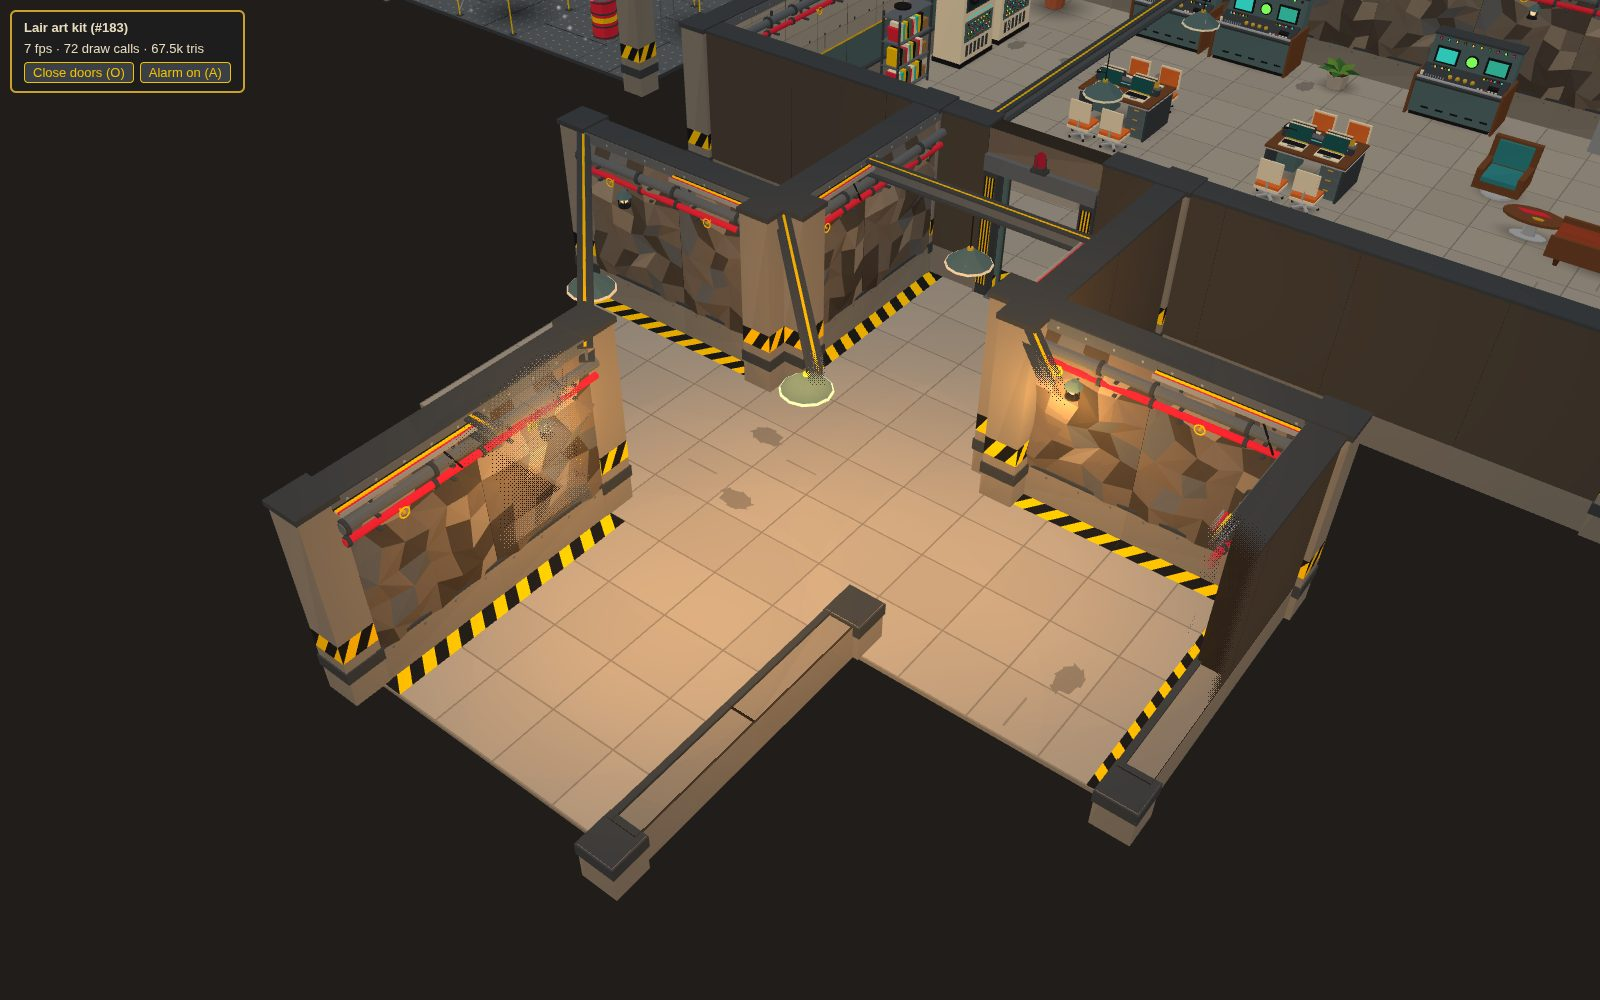
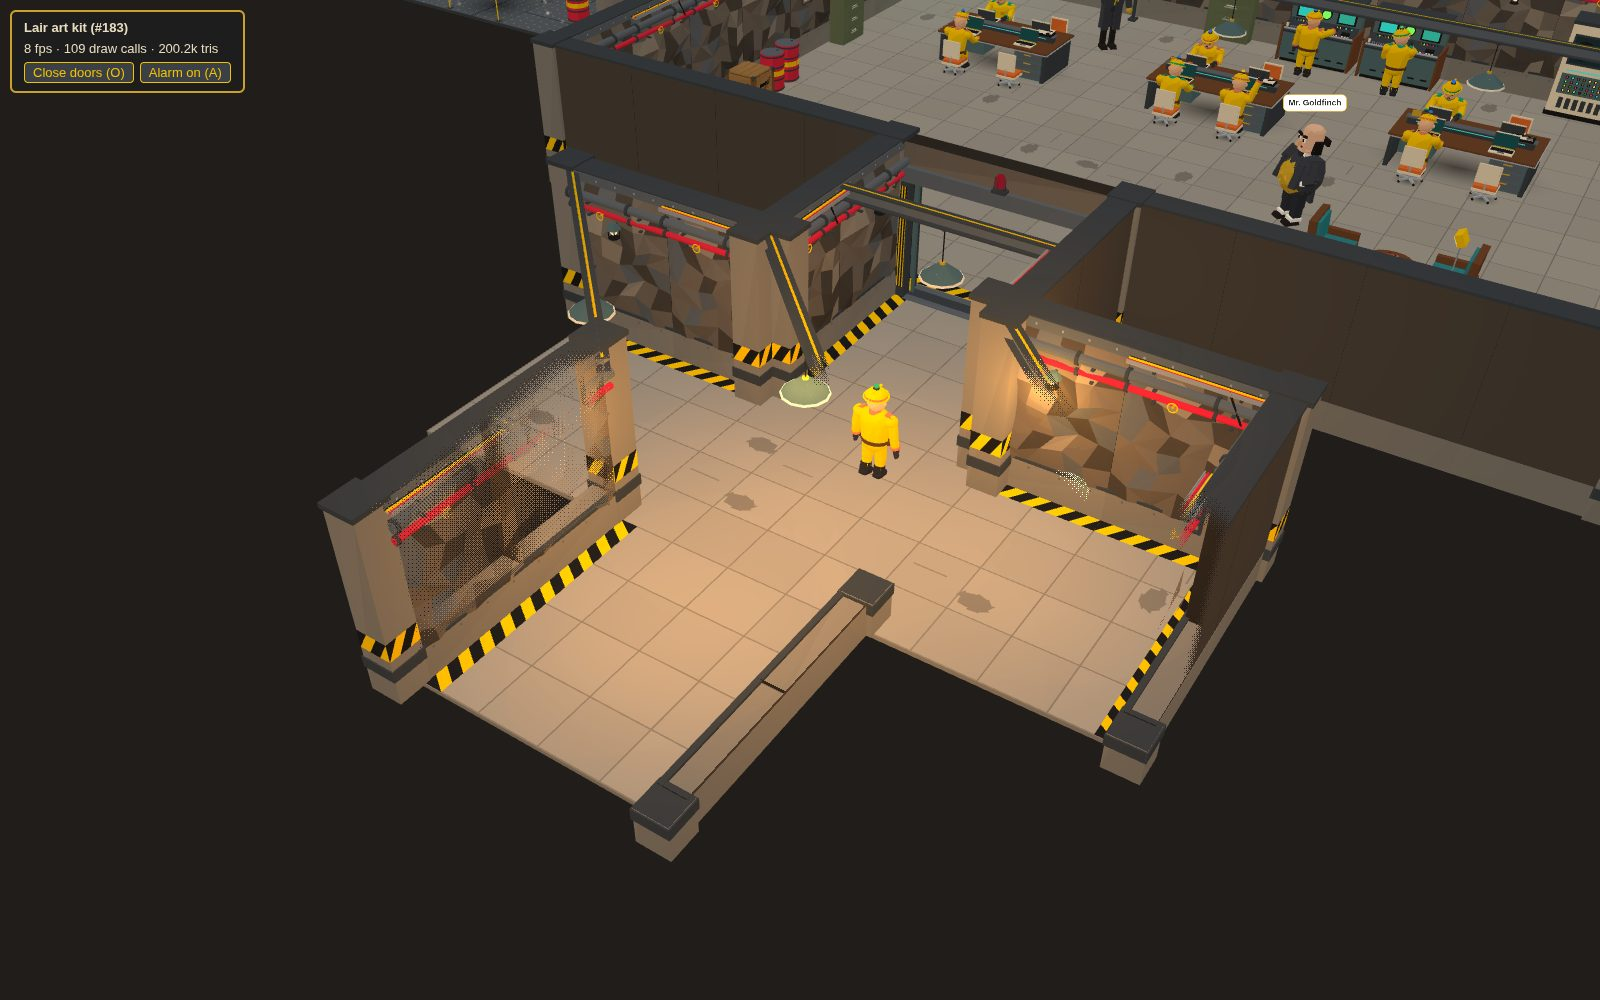
web: add geniuses to the lair debug scene and refresh the screenshots
#185 merged the genius avatars; the owner should judge the lair with its
people in it. The debug scene adds a mastermind by the boards, a tycoon by
the lounge, and a scientist and a general in the style gallery. The ten
PR screenshots are retaken with henchmen, geniuses, the wide blast door
and the generated rooms.

diff --git a/apps/web/src/scene/lair/debug/DebugHenchmen.tsx b/apps/web/src/scene/lair/debug/DebugHenchmen.tsx
@@ -1,14 +1,16 @@
 /**
- * Henchmen (#184) in the debug scene, so the owner sees the characters and
- * the lair together: seated at the main room's desks (placed with the lair
+ * Henchmen (#184) and geniuses (#185) in the debug scene, so the owner sees
+ * the characters and the lair together: seated at the main room's desks (placed with the lair
  * chair's sit anchor and the henchman's seated body), operators at the
  * consoles, one walking up the corridor, builders on the site, and the
- * gallery rooms staffed in their style's skin. Debug only.
+ * gallery rooms staffed in their style's skin, with a genius or two
+ * looking on. Debug only.
  */
 import type { RoomLayout, Seat } from "@regulus/floor-layout";
 import type { AgentStatus, AvatarAnimation } from "@regulus/protocol";
 import { providerLightColor } from "../../avatar/colorSets.ts";
 import { seatedOffset } from "../../avatar/seatedFit.ts";
+import { GeniusAvatar } from "../../geniuses/GeniusAvatar.tsx";
 import { HenchmanAvatar } from "../../henchmen/HenchmanAvatar.tsx";
 import { HENCHMAN_SEATED_BODY } from "../../henchmen/seatedFit.ts";
 import { resolveModelId } from "../generatorModels.ts";
@@ -137,6 +139,73 @@ export function DebugHenchmen({ spots }: { spots: readonly HenchmanSpot[] }) {
           handRaised={s.handRaised}
           skin={s.skin}
           trim={s.trim}
+        />
+      ))}
+    </group>
+  );
+}
+
+export interface GeniusSpot {
+  key: string;
+  name: string;
+  archetype: string;
+  position: readonly [number, number, number];
+  heading: number;
+  animation: AvatarAnimation;
+}
+
+/** The bosses: one in the main room, one by the lounge, one in the lab and war room of the gallery. */
+export function geniusSpots(
+  gallery: readonly { style: string; offset: readonly [number, number] }[],
+): GeniusSpot[] {
+  const spots: GeniusSpot[] = [
+    {
+      key: "boss",
+      name: "The Mastermind",
+      archetype: "mastermind",
+      position: [6.2, 0, 2.6],
+      heading: -2.4,
+      animation: "point",
+    },
+    {
+      key: "tycoon",
+      name: "Mr. Goldfinch",
+      archetype: "tycoon",
+      position: [13.2, 0, 9.4],
+      heading: 2.4,
+      animation: "idle",
+    },
+  ];
+  const by: Record<string, [string, string]> = {
+    lab: ["scientist", "Dr. Volta"],
+    war_room: ["general", "General Brass"],
+  };
+  for (const g of gallery) {
+    const who = by[g.style];
+    if (!who) continue;
+    spots.push({
+      key: g.style,
+      name: who[1],
+      archetype: who[0],
+      position: [g.offset[0] + 9.5, 0, g.offset[1] + 7.8],
+      heading: Math.PI - 0.4,
+      animation: "wave",
+    });
+  }
+  return spots;
+}
+
+export function DebugGeniuses({ spots }: { spots: readonly GeniusSpot[] }) {
+  return (
+    <group name="lair:geniuses">
+      {spots.map((s) => (
+        <GeniusAvatar
+          key={s.key}
+          position={s.position}
+          rotation-y={s.heading}
+          animation={s.animation}
+          name={s.name}
+          look={{ archetype: s.archetype }}
         />
       ))}
     </group>

diff --git a/apps/web/src/scene/lair/debug/LairShowcase.tsx b/apps/web/src/scene/lair/debug/LairShowcase.tsx
@@ -24,7 +24,13 @@ import { CORRIDOR_WIDTH, WALL_THICKNESS } from "../dimensions.ts";
 import { PIECES } from "../kit.ts";
 import { LAIR } from "../palette.ts";
 import { Dust, Sparks } from "../particles/BuildParticles.tsx";
-import { DebugHenchmen, extraCrew, roomCrew } from "./DebugHenchmen.tsx";
+import {
+  DebugGeniuses,
+  DebugHenchmen,
+  extraCrew,
+  geniusSpots,
+  roomCrew,
+} from "./DebugHenchmen.tsx";
 import { RoomLooks } from "./RoomLooks.tsx";
 import { corridorOrigin, mainRoom, mainRoomLayout, styleGallery } from "./sampleRooms.ts";
 import { BUILD_SITE, catalogue, sampleBuildSite, sampleCorridors } from "./sampleScene.ts";
@@ -78,6 +84,7 @@ function Scene({
   const rooms = useMemo(() => [main, ...gallery.map((g) => g.scene)], [main, gallery]);
   const origin = useMemo(() => corridorOrigin(main, CORRIDOR_WIDTH, WALL_THICKNESS), [main]);
   const corridors = useMemo(() => sampleCorridors(origin), [origin]);
+  const bosses = useMemo(() => geniusSpots(gallery), [gallery]);
   const crew = useMemo(
     () => [
       ...roomCrew(mainRoomLayout(options.style), "main"),
@@ -155,6 +162,7 @@ function Scene({
       <BlinkingLamps lamps={consoleLamps} />
       <RoomLooks looks={looks} />
       {options.henchmen && <DebugHenchmen spots={crew} />}
+      {options.henchmen && <DebugGeniuses spots={bosses} />}
       <SlidingDoors doors={doors} />
       <Beacons items={beacons} active={alarm} lights={2} />
       <Sparks origin={[BUILD_SITE.x + 7, 2.5, BUILD_SITE.z + 3]} />
